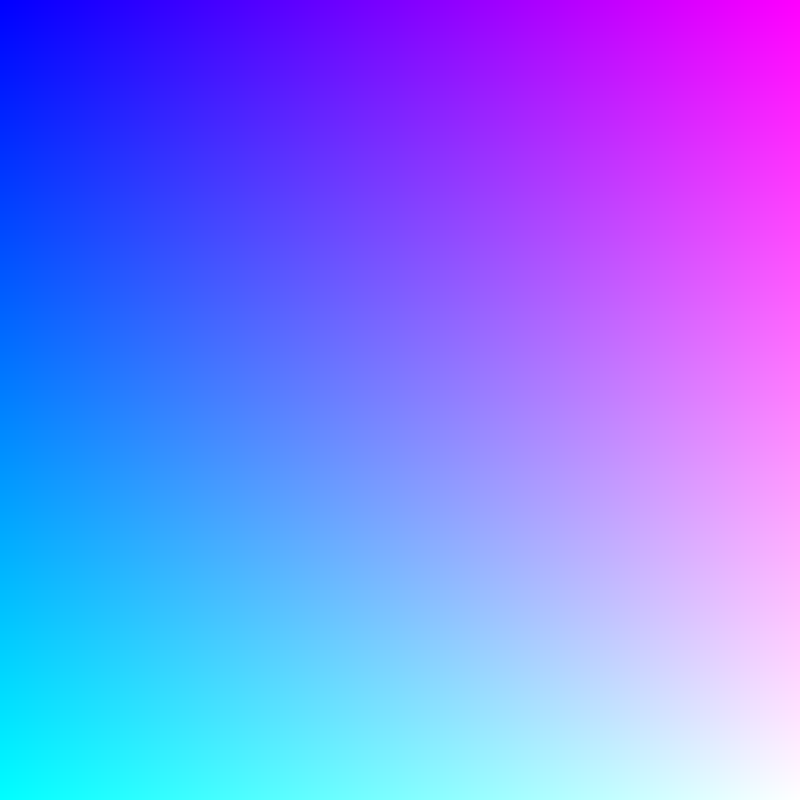
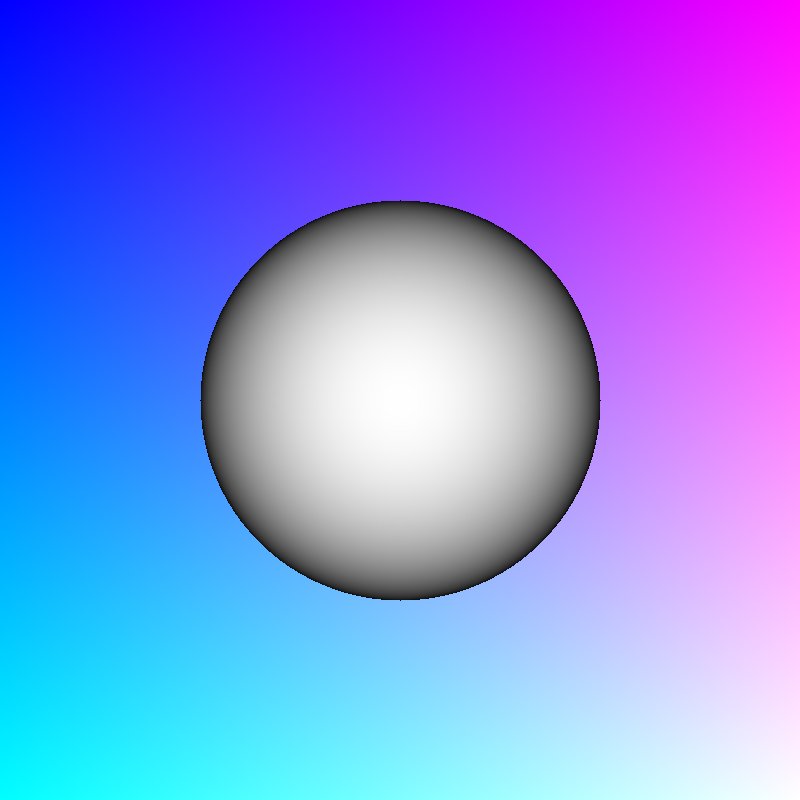
render sphere is done

Changed region(s): [[0.25, 0.25, 0.75, 0.75]]

diff --git a/examples/render_sphere.rs b/examples/render_sphere.rs
@@ -3,8 +3,45 @@ use std::path::PathBuf;
 use image::{Rgb, RgbImage};
 use patina::{
     camera::{Camera, CameraSample, OrthographicCamera, RenderingSpace},
-    math::{Bounds2f, PatinaPoint2f, PatinaRay3f, Transform},
+    math::{Bounds2f, PatinaFloat, PatinaPoint2f, PatinaPoint3f, PatinaRay3f, Transform},
 };
+
+struct Sphere {
+    origin: PatinaPoint3f,
+    radius: PatinaFloat,
+}
+
+impl Sphere {
+    // Returns the closest point where the ray hits the sphere, if it hits at all (t >= 0). We'll
+    // implement this more generally later.
+    pub fn ray_intersection(&self, ray: &PatinaRay3f) -> Option<PatinaPoint3f> {
+        // Vector from the sphere's center to the ray's origin (Point - Point = Vector).
+        let oc = ray.o - self.origin;
+
+        let a = ray.d.dot(&ray.d);
+        let b = 2.0 * oc.dot(&ray.d);
+        let c = oc.dot(&oc) - self.radius * self.radius;
+
+        let discriminant = b * b - 4.0 * a * c;
+        if discriminant < 0.0 {
+            return None;
+        }
+
+        // The two solutions, nearest first. Use the nearest one in front of the ray's origin.
+        let sqrt_discriminant = discriminant.sqrt();
+        let t0 = (-b - sqrt_discriminant) / (2.0 * a);
+        let t1 = (-b + sqrt_discriminant) / (2.0 * a);
+        let t = if t0 >= 0.0 {
+            t0
+        } else if t1 >= 0.0 {
+            t1
+        } else {
+            return None;
+        };
+
+        Some(ray.eval(t))
+    }
+}
 
 struct Film {
     width: usize,
@@ -33,15 +70,31 @@ impl Film {
 }
 
 // Hand rolled coloring for this example. Gives us a gradient.
-fn ray_color(ray: &PatinaRay3f) -> [u8; 3] {
+fn background_color(ray: &PatinaRay3f) -> [u8; 3] {
     let r = ((ray.o.x + 1.0) / 2.0 * 255.0) as u8;
     let g = ((1.0 - ray.o.y) / 2.0 * 255.0) as u8;
     let b = 255;
     [r, g, b]
 }
 
-// Meant to serve as a minimal working render. We should render points in a sphere as white, and
-// everything else black.
+// Grayscale by depth: white at the front of the sphere (z = center.z - radius), fading to black at
+// its silhouette (z = center.z). Depth is the hit point's z in camera space, which is render space
+// here since we render in RenderingSpace::Camera.
+fn depth_color(hit: &PatinaPoint3f, sphere: &Sphere) -> [u8; 3] {
+    let nearest = sphere.origin.z - sphere.radius;
+    let brightness = (1.0 - (hit.z - nearest) / sphere.radius).clamp(0.0, 1.0);
+    let v = (brightness * 255.0) as u8;
+    [v, v, v]
+}
+
+fn ray_color(ray: &PatinaRay3f, sphere: &Sphere) -> [u8; 3] {
+    match sphere.ray_intersection(ray) {
+        Some(hit) => depth_color(&hit, sphere),
+        None => background_color(ray),
+    }
+}
+
+// Meant to serve as a minimal working render: a sphere shaded by depth in front of a gradient.
 fn main() {
     const WIDTH: usize = 800;
     const HEIGHT: usize = 800;
@@ -63,6 +116,14 @@ fn main() {
         &screen_window,
     );
 
+    // The camera looks down +z from the origin and sees x, y in [-1, 1]. Place the sphere straight
+    // ahead, covering half the image. With no world-to-render transform for geometry yet, the
+    // sphere is given directly in render space (= camera space here).
+    let sphere = Sphere {
+        origin: PatinaPoint3f::new(0.0, 0.0, 3.0),
+        radius: 0.5,
+    };
+
     for x in 0..WIDTH {
         for y in 0..HEIGHT {
             let sample = CameraSample::new(
@@ -72,7 +133,7 @@ fn main() {
                 1.0,
             );
             let color = match camera.generate_ray(&sample) {
-                Some(ray) => ray_color(&ray),
+                Some(ray) => ray_color(&ray, &sphere),
                 None => [0, 0, 0],
             };
 
